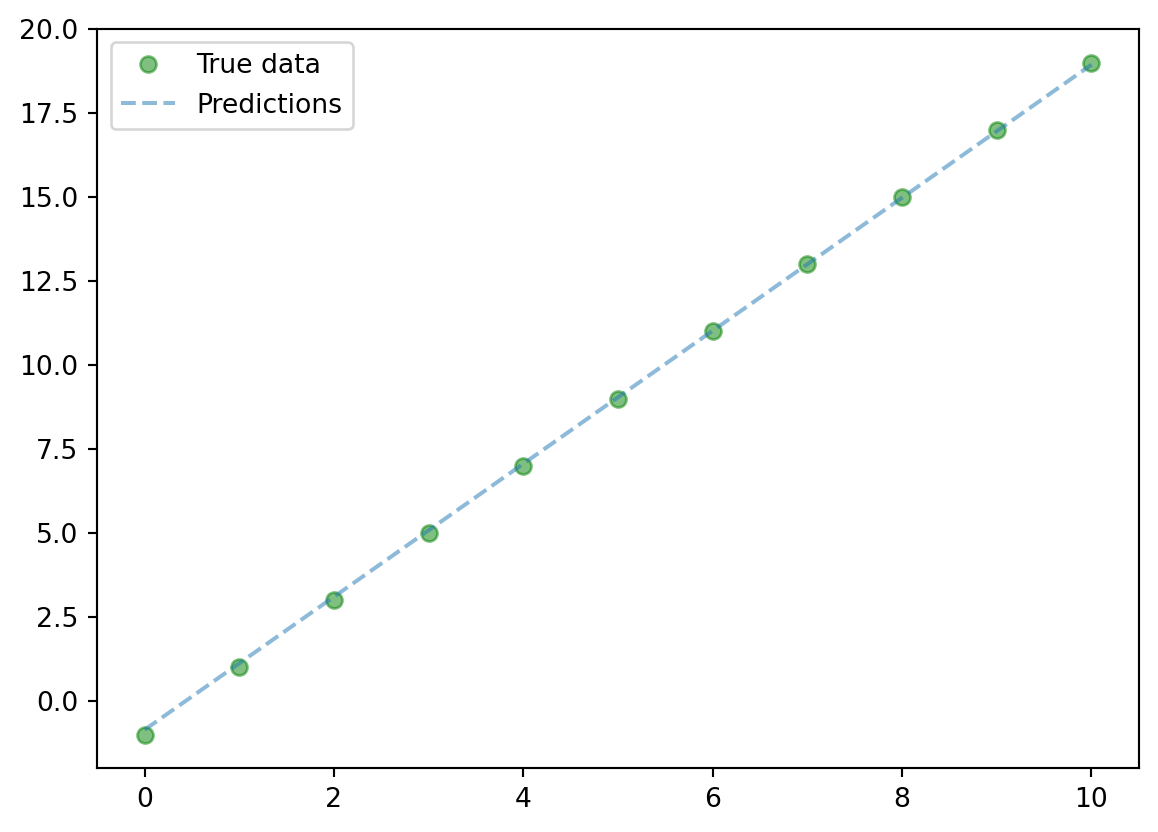
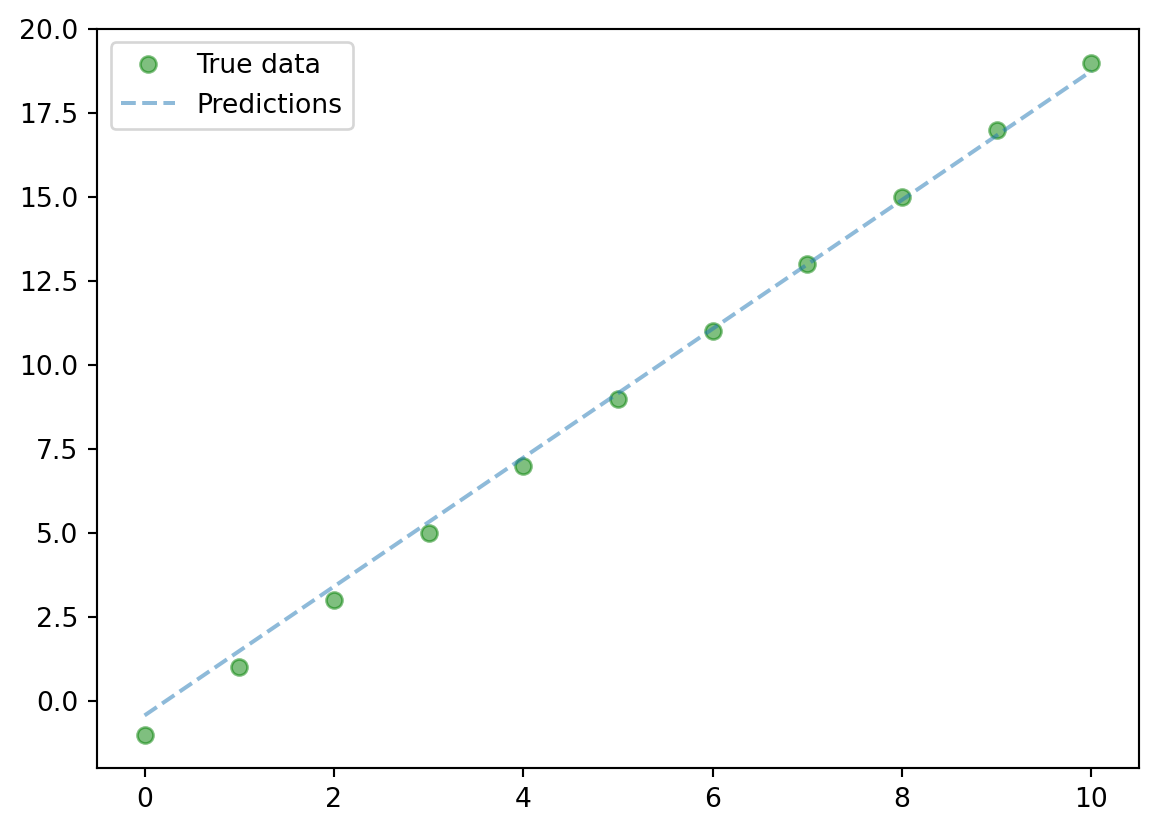
w3

diff --git a/docs/lectures/cw_w2.html b/docs/lectures/cw_w2.html
@@ -249,6 +249,12 @@ window.Quarto = {
 </li>
       </ul>
   </li>
+          <li class="sidebar-item">
+  <div class="sidebar-item-container"> 
+  <a href="../lectures/wyklad3.html" class="sidebar-item-text sidebar-link">
+ <span class="menu-text">Przestrzenie wektorowe, stany kwantowe, reprezentacja klasycznych i kwantowych bitów</span></a>
+  </div>
+</li>
       </ul>
   </li>
         <li class="sidebar-item sidebar-item-section">
@@ -305,7 +311,7 @@ window.Quarto = {
 </section>
 <section id="pytorch-regresja-liniowa" class="level3">
 <h3 class="anchored" data-anchor-id="pytorch-regresja-liniowa">PyTorch Regresja liniowa</h3>
-<div id="ad534c36" class="cell" data-execution_count="1">
+<div id="11c4e708" class="cell" data-execution_count="1">
 <div class="sourceCode cell-code" id="cb1"><pre class="sourceCode python code-with-copy"><code class="sourceCode python"><span id="cb1-1"><a href="#cb1-1" aria-hidden="true" tabindex="-1"></a><span class="im">import</span> torch</span>
 <span id="cb1-2"><a href="#cb1-2" aria-hidden="true" tabindex="-1"></a><span class="im">import</span> numpy <span class="im">as</span> np</span>
 <span id="cb1-3"><a href="#cb1-3" aria-hidden="true" tabindex="-1"></a><span class="im">import</span> matplotlib.pyplot <span class="im">as</span> plt</span>
@@ -373,16 +379,16 @@ window.Quarto = {
 <div class="cell-output cell-output-stdout">
 <pre><code>dane: [ 0  1  2  3  4  5  6  7  8  9 10]
 target: [-1, 1, 3, 5, 7, 9, 11, 13, 15, 17, 19]
-epoch: 10, loss = 0.0157
-epoch: 20, loss = 0.0140
-epoch: 30, loss = 0.0125
-epoch: 40, loss = 0.0112
-epoch: 50, loss = 0.0100
-epoch: 60, loss = 0.0089
-epoch: 70, loss = 0.0080
-epoch: 80, loss = 0.0071
-epoch: 90, loss = 0.0064
-epoch: 100, loss = 0.0057</code></pre>
+epoch: 10, loss = 0.2569
+epoch: 20, loss = 0.2296
+epoch: 30, loss = 0.2052
+epoch: 40, loss = 0.1834
+epoch: 50, loss = 0.1640
+epoch: 60, loss = 0.1465
+epoch: 70, loss = 0.1310
+epoch: 80, loss = 0.1171
+epoch: 90, loss = 0.1046
+epoch: 100, loss = 0.0935</code></pre>
 </div>
 <div class="cell-output cell-output-display">
 <div>
@@ -395,7 +401,7 @@ epoch: 100, loss = 0.0057</code></pre>
 </section>
 <section id="pytorch-regresja-logistyczna" class="level3">
 <h3 class="anchored" data-anchor-id="pytorch-regresja-logistyczna">PyTorch Regresja logistyczna</h3>
-<div id="9f500ee4" class="cell" data-execution_count="2">
+<div id="480ed648" class="cell" data-execution_count="2">
 <div class="sourceCode cell-code" id="cb3"><pre class="sourceCode python code-with-copy"><code class="sourceCode python"><span id="cb3-1"><a href="#cb3-1" aria-hidden="true" tabindex="-1"></a><span class="im">import</span> torch</span>
 <span id="cb3-2"><a href="#cb3-2" aria-hidden="true" tabindex="-1"></a><span class="im">import</span> numpy <span class="im">as</span> np</span>
 <span id="cb3-3"><a href="#cb3-3" aria-hidden="true" tabindex="-1"></a><span class="im">import</span> matplotlib.pyplot <span class="im">as</span> plt</span>
@@ -461,7 +467,7 @@ epoch: 100, loss = 0.0057</code></pre>
 <span id="cb3-63"><a href="#cb3-63" aria-hidden="true" tabindex="-1"></a>    <span class="bu">print</span>(<span class="ss">f'accuracy = </span><span class="sc">{</span>acc<span class="sc">:.4f}</span><span class="ss">'</span>)</span></code><button title="Copy to Clipboard" class="code-copy-button"><i class="bi"></i></button></pre></div>
 <div class="cell-output cell-output-stdout">
 <pre><code>dane: [ 0  1  2  3  4  5  6  7  8  9 10]
-target: [1, 1, 1, 1, 0, 1, 0, 1, 0, 0, 0]
+target: [0, 0, 0, 0, 1, 0, 0, 0, 1, 1, 0]
 epoch: 10, loss = -0.0000
 epoch: 20, loss = -0.0000
 epoch: 30, loss = -0.0000

diff --git a/docs/lectures/wyklad3.html b/docs/lectures/wyklad3.html
@@ -136,7 +136,7 @@ window.Quarto = {
       <button type="button" class="quarto-btn-toggle btn" data-bs-toggle="collapse" role="button" data-bs-target=".quarto-sidebar-collapse-item" aria-controls="quarto-sidebar" aria-expanded="false" aria-label="Toggle sidebar navigation" onclick="if (window.quartoToggleHeadroom) { window.quartoToggleHeadroom(); }">
         <i class="bi bi-layout-text-sidebar-reverse"></i>
       </button>
-        <nav class="quarto-page-breadcrumbs" aria-label="breadcrumb"><ol class="breadcrumb"><li class="breadcrumb-item">Przestrzenie wektorowe, stany kwantowe, reprezentacja klasycznych i kwantowych bitów</li></ol></nav>
+        <nav class="quarto-page-breadcrumbs" aria-label="breadcrumb"><ol class="breadcrumb"><li class="breadcrumb-item"><a href="../lectures/wyklad1.html">Wykłady</a></li><li class="breadcrumb-item"><a href="../lectures/wyklad3.html">Przestrzenie wektorowe, stany kwantowe, reprezentacja klasycznych i kwantowych bitów</a></li></ol></nav>
         <a class="flex-grow-1" role="navigation" data-bs-toggle="collapse" data-bs-target=".quarto-sidebar-collapse-item" aria-controls="quarto-sidebar" aria-expanded="false" aria-label="Toggle sidebar navigation" onclick="if (window.quartoToggleHeadroom) { window.quartoToggleHeadroom(); }">      
         </a>
     </div>
@@ -215,6 +215,12 @@ window.Quarto = {
 </li>
       </ul>
   </li>
+          <li class="sidebar-item">
+  <div class="sidebar-item-container"> 
+  <a href="../lectures/wyklad3.html" class="sidebar-item-text sidebar-link active">
+ <span class="menu-text">Przestrzenie wektorowe, stany kwantowe, reprezentacja klasycznych i kwantowych bitów</span></a>
+  </div>
+</li>
       </ul>
   </li>
         <li class="sidebar-item sidebar-item-section">
@@ -260,7 +266,7 @@ window.Quarto = {
 <!-- main -->
 <main class="content" id="quarto-document-content">
 
-<header id="title-block-header" class="quarto-title-block default">
+<header id="title-block-header" class="quarto-title-block default"><nav class="quarto-page-breadcrumbs quarto-title-breadcrumbs d-none d-lg-block" aria-label="breadcrumb"><ol class="breadcrumb"><li class="breadcrumb-item"><a href="../lectures/wyklad1.html">Wykłady</a></li><li class="breadcrumb-item"><a href="../lectures/wyklad3.html">Przestrzenie wektorowe, stany kwantowe, reprezentacja klasycznych i kwantowych bitów</a></li></ol></nav>
 <div class="quarto-title">
 <h1 class="title">Przestrzenie wektorowe, stany kwantowe, reprezentacja klasycznych i kwantowych bitów</h1>
 </div>

diff --git a/docs/lectures/cw_w3.html b/docs/lectures/cw_w3.html
@@ -220,6 +220,12 @@ pre > code.sourceCode > span > a:first-child::before { text-decoration: underlin
 </li>
       </ul>
   </li>
+          <li class="sidebar-item">
+  <div class="sidebar-item-container"> 
+  <a href="../lectures/wyklad3.html" class="sidebar-item-text sidebar-link">
+ <span class="menu-text">Przestrzenie wektorowe, stany kwantowe, reprezentacja klasycznych i kwantowych bitów</span></a>
+  </div>
+</li>
       </ul>
   </li>
         <li class="sidebar-item sidebar-item-section">
@@ -241,7 +247,7 @@ pre > code.sourceCode > span > a:first-child::before { text-decoration: underlin
 
 
 <p>Solution l.1.1</p>
-<div id="7173449a" class="cell" data-execution_count="1">
+<div id="a0b5b3df" class="cell" data-execution_count="1">
 <div class="sourceCode cell-code" id="cb1"><pre class="sourceCode python code-with-copy"><code class="sourceCode python"><span id="cb1-1"><a href="#cb1-1" aria-hidden="true" tabindex="-1"></a><span class="im">import</span> numpy <span class="im">as</span> np</span>
 <span id="cb1-2"><a href="#cb1-2" aria-hidden="true" tabindex="-1"></a></span>
 <span id="cb1-3"><a href="#cb1-3" aria-hidden="true" tabindex="-1"></a>ket_0 <span class="op">=</span> np.array([<span class="dv">1</span>, <span class="dv">0</span>])</span>
@@ -278,7 +284,7 @@ pre > code.sourceCode > span > a:first-child::before { text-decoration: underlin
 </div>
 </div>
 <p>Solution l.1.2</p>
-<div id="bd0421d4" class="cell" data-execution_count="2">
+<div id="79558f15" class="cell" data-execution_count="2">
 <div class="sourceCode cell-code" id="cb3"><pre class="sourceCode python code-with-copy"><code class="sourceCode python"><span id="cb3-1"><a href="#cb3-1" aria-hidden="true" tabindex="-1"></a><span class="im">import</span> numpy <span class="im">as</span> np</span>
 <span id="cb3-2"><a href="#cb3-2" aria-hidden="true" tabindex="-1"></a></span>
 <span id="cb3-3"><a href="#cb3-3" aria-hidden="true" tabindex="-1"></a><span class="kw">def</span> inner_product(state_1, state_2):</span>

diff --git a/docs/labs/PennyLane_version/PQC_optim.html b/docs/labs/PennyLane_version/PQC_optim.html
@@ -220,6 +220,12 @@ pre > code.sourceCode > span > a:first-child::before { text-decoration: underlin
 </li>
       </ul>
   </li>
+          <li class="sidebar-item">
+  <div class="sidebar-item-container"> 
+  <a href="../../lectures/wyklad3.html" class="sidebar-item-text sidebar-link">
+ <span class="menu-text">Przestrzenie wektorowe, stany kwantowe, reprezentacja klasycznych i kwantowych bitów</span></a>
+  </div>
+</li>
       </ul>
   </li>
         <li class="sidebar-item sidebar-item-section">

diff --git a/docs/check/grover.html b/docs/check/grover.html
@@ -220,6 +220,12 @@ pre > code.sourceCode > span > a:first-child::before { text-decoration: underlin
 </li>
       </ul>
   </li>
+          <li class="sidebar-item">
+  <div class="sidebar-item-container"> 
+  <a href="../lectures/wyklad3.html" class="sidebar-item-text sidebar-link">
+ <span class="menu-text">Przestrzenie wektorowe, stany kwantowe, reprezentacja klasycznych i kwantowych bitów</span></a>
+  </div>
+</li>
       </ul>
   </li>
         <li class="sidebar-item sidebar-item-section">

diff --git a/docs/labs/pytorch_classical_models.html b/docs/labs/pytorch_classical_models.html
@@ -220,6 +220,12 @@ pre > code.sourceCode > span > a:first-child::before { text-decoration: underlin
 </li>
       </ul>
   </li>
+          <li class="sidebar-item">
+  <div class="sidebar-item-container"> 
+  <a href="../lectures/wyklad3.html" class="sidebar-item-text sidebar-link">
+ <span class="menu-text">Przestrzenie wektorowe, stany kwantowe, reprezentacja klasycznych i kwantowych bitów</span></a>
+  </div>
+</li>
       </ul>
   </li>
         <li class="sidebar-item sidebar-item-section">

diff --git a/docs/labs/qaoa_penny.html b/docs/labs/qaoa_penny.html
@@ -220,6 +220,12 @@ pre > code.sourceCode > span > a:first-child::before { text-decoration: underlin
 </li>
       </ul>
   </li>
+          <li class="sidebar-item">
+  <div class="sidebar-item-container"> 
+  <a href="../lectures/wyklad3.html" class="sidebar-item-text sidebar-link">
+ <span class="menu-text">Przestrzenie wektorowe, stany kwantowe, reprezentacja klasycznych i kwantowych bitów</span></a>
+  </div>
+</li>
       </ul>
   </li>
         <li class="sidebar-item sidebar-item-section">

diff --git a/docs/lectures/cw_w1.html b/docs/lectures/cw_w1.html
@@ -220,6 +220,12 @@ pre > code.sourceCode > span > a:first-child::before { text-decoration: underlin
 </li>
       </ul>
   </li>
+          <li class="sidebar-item">
+  <div class="sidebar-item-container"> 
+  <a href="../lectures/wyklad3.html" class="sidebar-item-text sidebar-link">
+ <span class="menu-text">Przestrzenie wektorowe, stany kwantowe, reprezentacja klasycznych i kwantowych bitów</span></a>
+  </div>
+</li>
       </ul>
   </li>
         <li class="sidebar-item sidebar-item-section">

diff --git a/docs/other/qiskitML.html b/docs/other/qiskitML.html
@@ -223,6 +223,12 @@ pre > code.sourceCode > span > a:first-child::before { text-decoration: underlin
 </li>
       </ul>
   </li>
+          <li class="sidebar-item">
+  <div class="sidebar-item-container"> 
+  <a href="../lectures/wyklad3.html" class="sidebar-item-text sidebar-link">
+ <span class="menu-text">Przestrzenie wektorowe, stany kwantowe, reprezentacja klasycznych i kwantowych bitów</span></a>
+  </div>
+</li>
       </ul>
   </li>
         <li class="sidebar-item sidebar-item-section">

diff --git a/docs/info.html b/docs/info.html
@@ -220,6 +220,12 @@ pre > code.sourceCode > span > a:first-child::before { text-decoration: underlin
 </li>
       </ul>
   </li>
+          <li class="sidebar-item">
+  <div class="sidebar-item-container"> 
+  <a href="./lectures/wyklad3.html" class="sidebar-item-text sidebar-link">
+ <span class="menu-text">Przestrzenie wektorowe, stany kwantowe, reprezentacja klasycznych i kwantowych bitów</span></a>
+  </div>
+</li>
       </ul>
   </li>
         <li class="sidebar-item sidebar-item-section">

diff --git a/docs/lectures/wyklad5.html b/docs/lectures/wyklad5.html
@@ -186,6 +186,12 @@ ul.task-list li input[type="checkbox"] {
 </li>
       </ul>
   </li>
+          <li class="sidebar-item">
+  <div class="sidebar-item-container"> 
+  <a href="../lectures/wyklad3.html" class="sidebar-item-text sidebar-link">
+ <span class="menu-text">Przestrzenie wektorowe, stany kwantowe, reprezentacja klasycznych i kwantowych bitów</span></a>
+  </div>
+</li>
       </ul>
   </li>
         <li class="sidebar-item sidebar-item-section">

diff --git a/docs/other/pennylane.html b/docs/other/pennylane.html
@@ -186,6 +186,12 @@ ul.task-list li input[type="checkbox"] {
 </li>
       </ul>
   </li>
+          <li class="sidebar-item">
+  <div class="sidebar-item-container"> 
+  <a href="../lectures/wyklad3.html" class="sidebar-item-text sidebar-link">
+ <span class="menu-text">Przestrzenie wektorowe, stany kwantowe, reprezentacja klasycznych i kwantowych bitów</span></a>
+  </div>
+</li>
       </ul>
   </li>
         <li class="sidebar-item sidebar-item-section">
